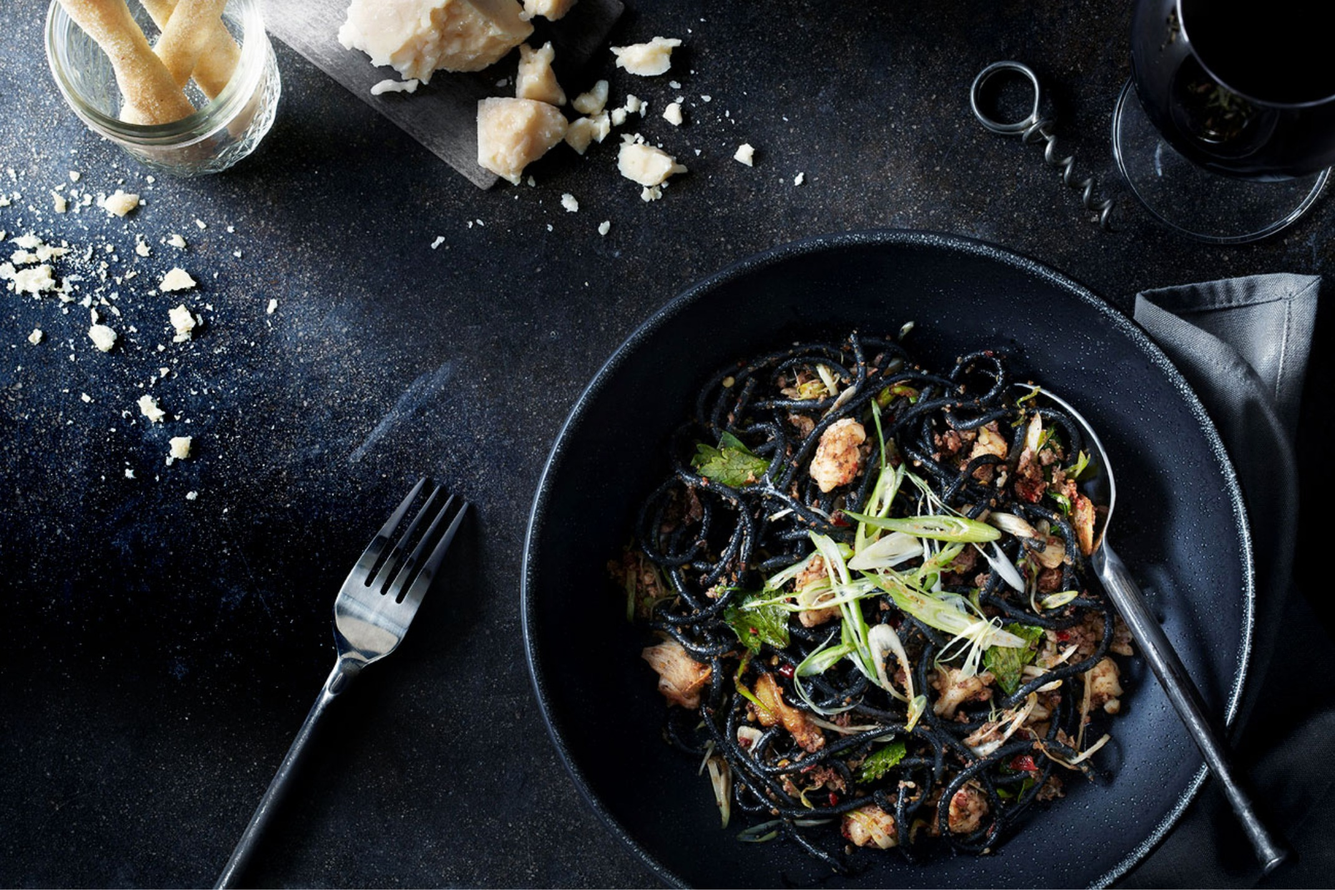
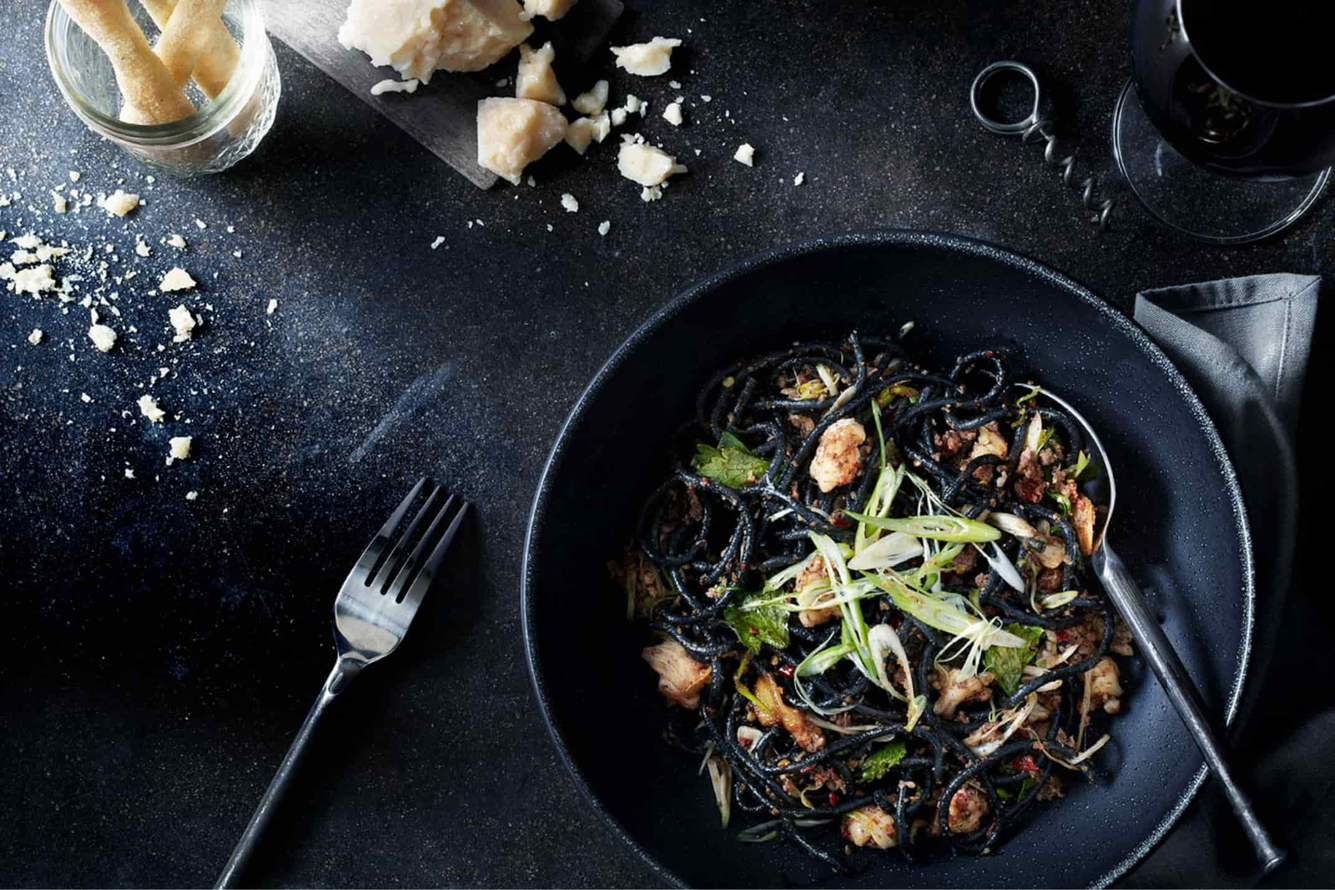
optimized assets

diff --git a/src/app/components/Footer/Footer.js b/src/app/components/Footer/Footer.js
@@ -17,10 +17,12 @@ import visa from '../../../public/assets/images/social/visa.svg';
 import masterCard from '../../../public/assets/images/social/mastercard.svg';
 import americanExpress from '../../../public/assets/images/social/americanexpress.svg';
 import ScrollComponent from '../Scroll/Scroll.component';
+import GoogleLogIn from '@components/GoogleLogIn/GoogleLogIn.component';
 
 class Footer extends React.Component {
   static propTypes = {
-      t: PropTypes.func.isRequired
+      t: PropTypes.func.isRequired,
+      lang: PropTypes.string.isRequired
   };
 
   constructor(props) {
@@ -97,13 +99,21 @@ class Footer extends React.Component {
   }
 
   renderFooterMenuItems() {
-      const { t } = this.props;
+      const {
+          t,
+          lang: currentLanguage = ''
+      } = this.props;
+
       return (
-          Object.values(t('footer-menu', { returnObjects: true })).map((item) => (
-              <li key={ item } className="footer-notice-text">
-                <a href="#">{ item }</a>
-              </li>
-          ))
+          <>
+              { Object.values(t('footer-menu', { returnObjects: true }))
+                  .map((item) => (
+                      <li key={ item } className="footer-notice-text">
+                          <a href="#">{ item }</a>
+                      </li>
+                  )) }
+              <GoogleLogIn lang={ currentLanguage } />
+          </>
       );
   }
 

diff --git a/src/app/components/App/App.component.js b/src/app/components/App/App.component.js
@@ -93,10 +93,11 @@ class App extends React.Component {
                   <Starters
                     languageCode={ this.getCurrentLanguage() }
                   />
-                  <GoogleLogIn lang={ currentLanguage } />
                   <Contact />
                   <EmbeddedMapComponent />
-                  <Footer />
+                  <Footer
+                    lang={ currentLanguage }
+                  />
                 </Provider>
               </Route>
             </Switch>
